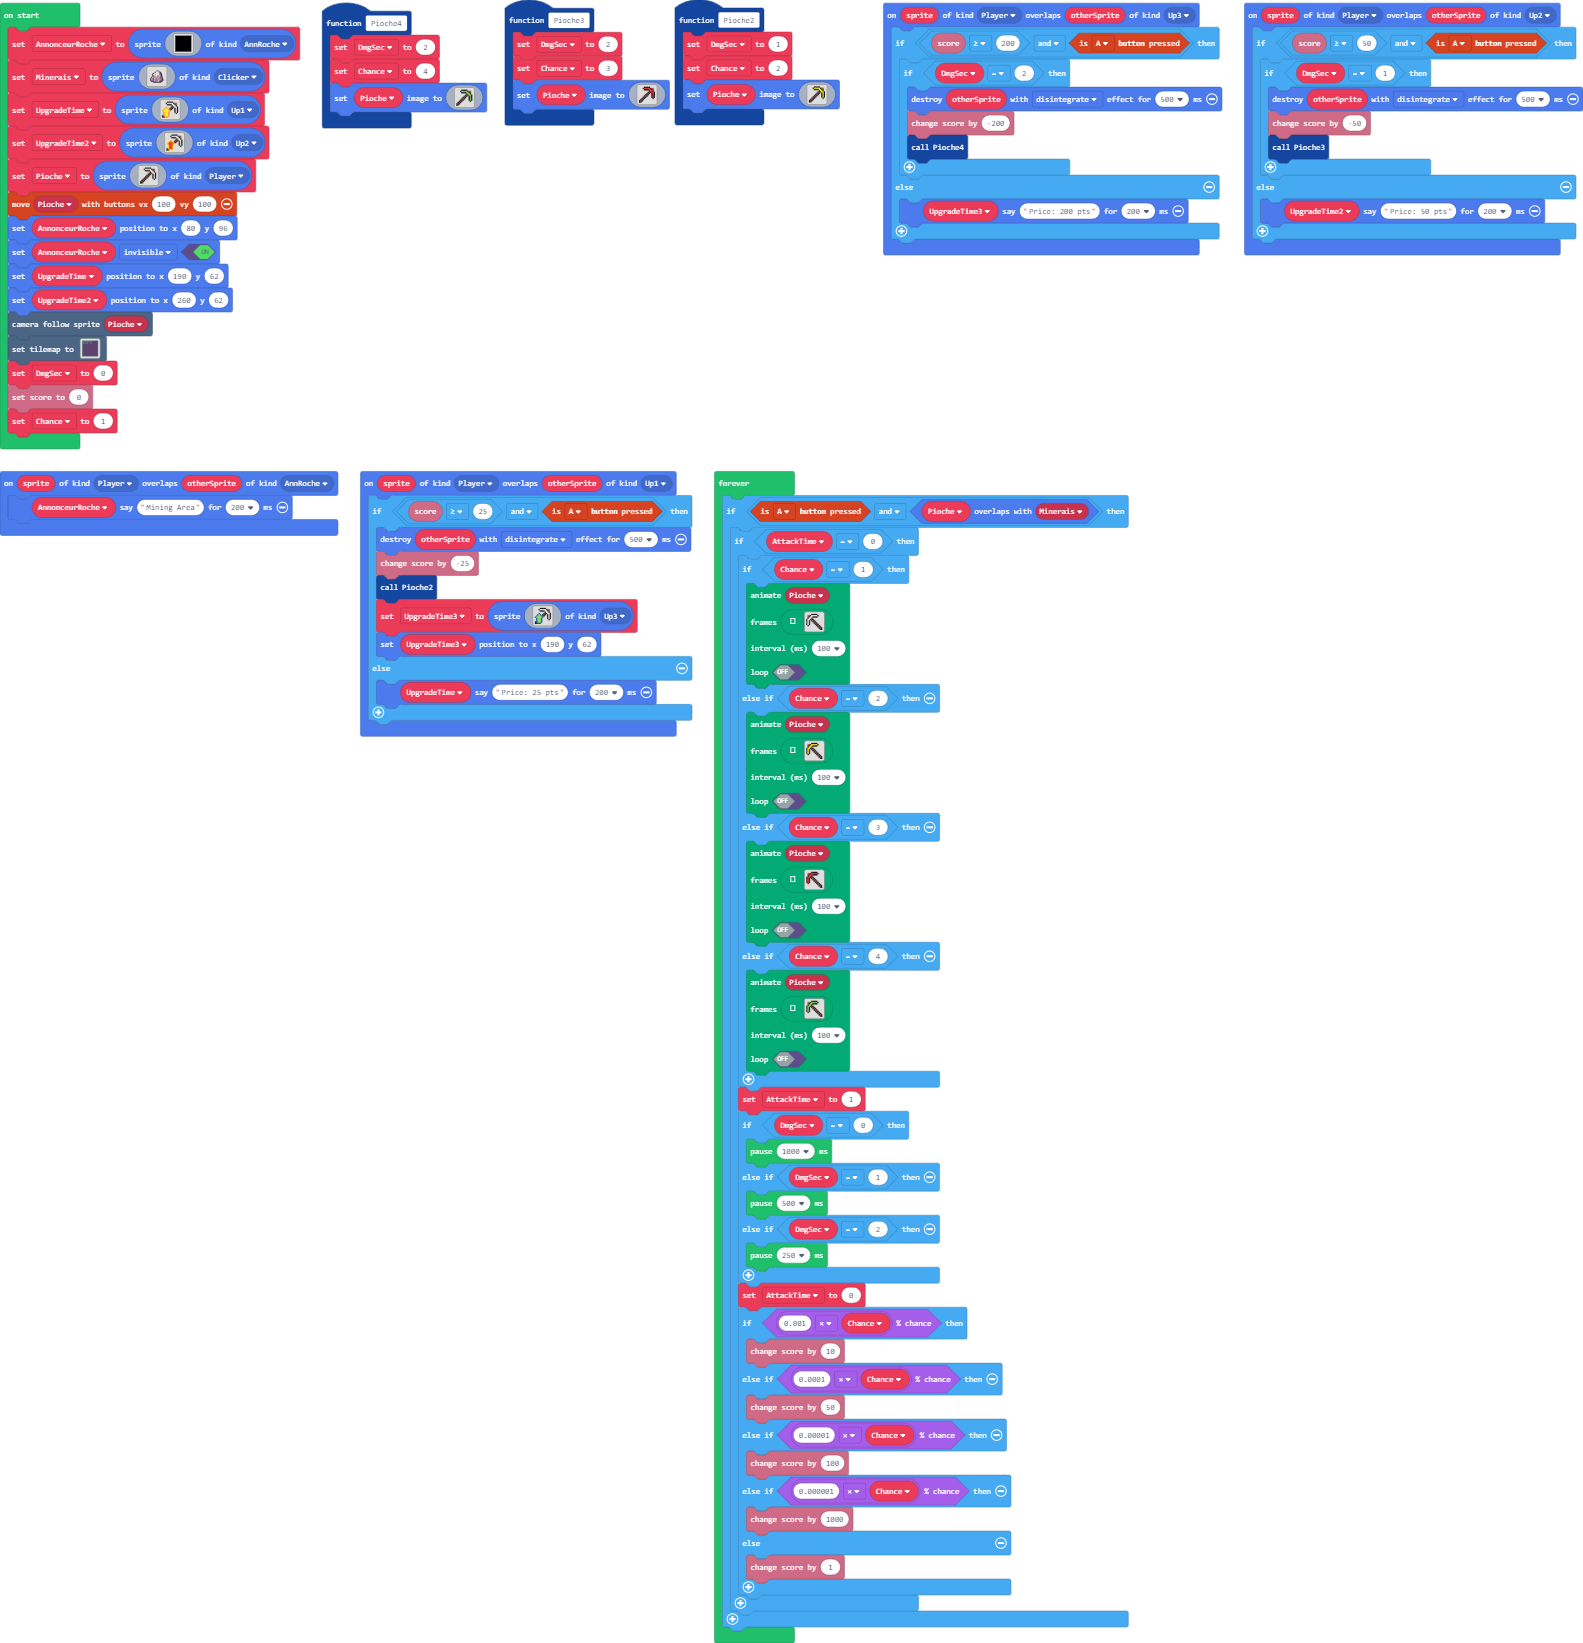
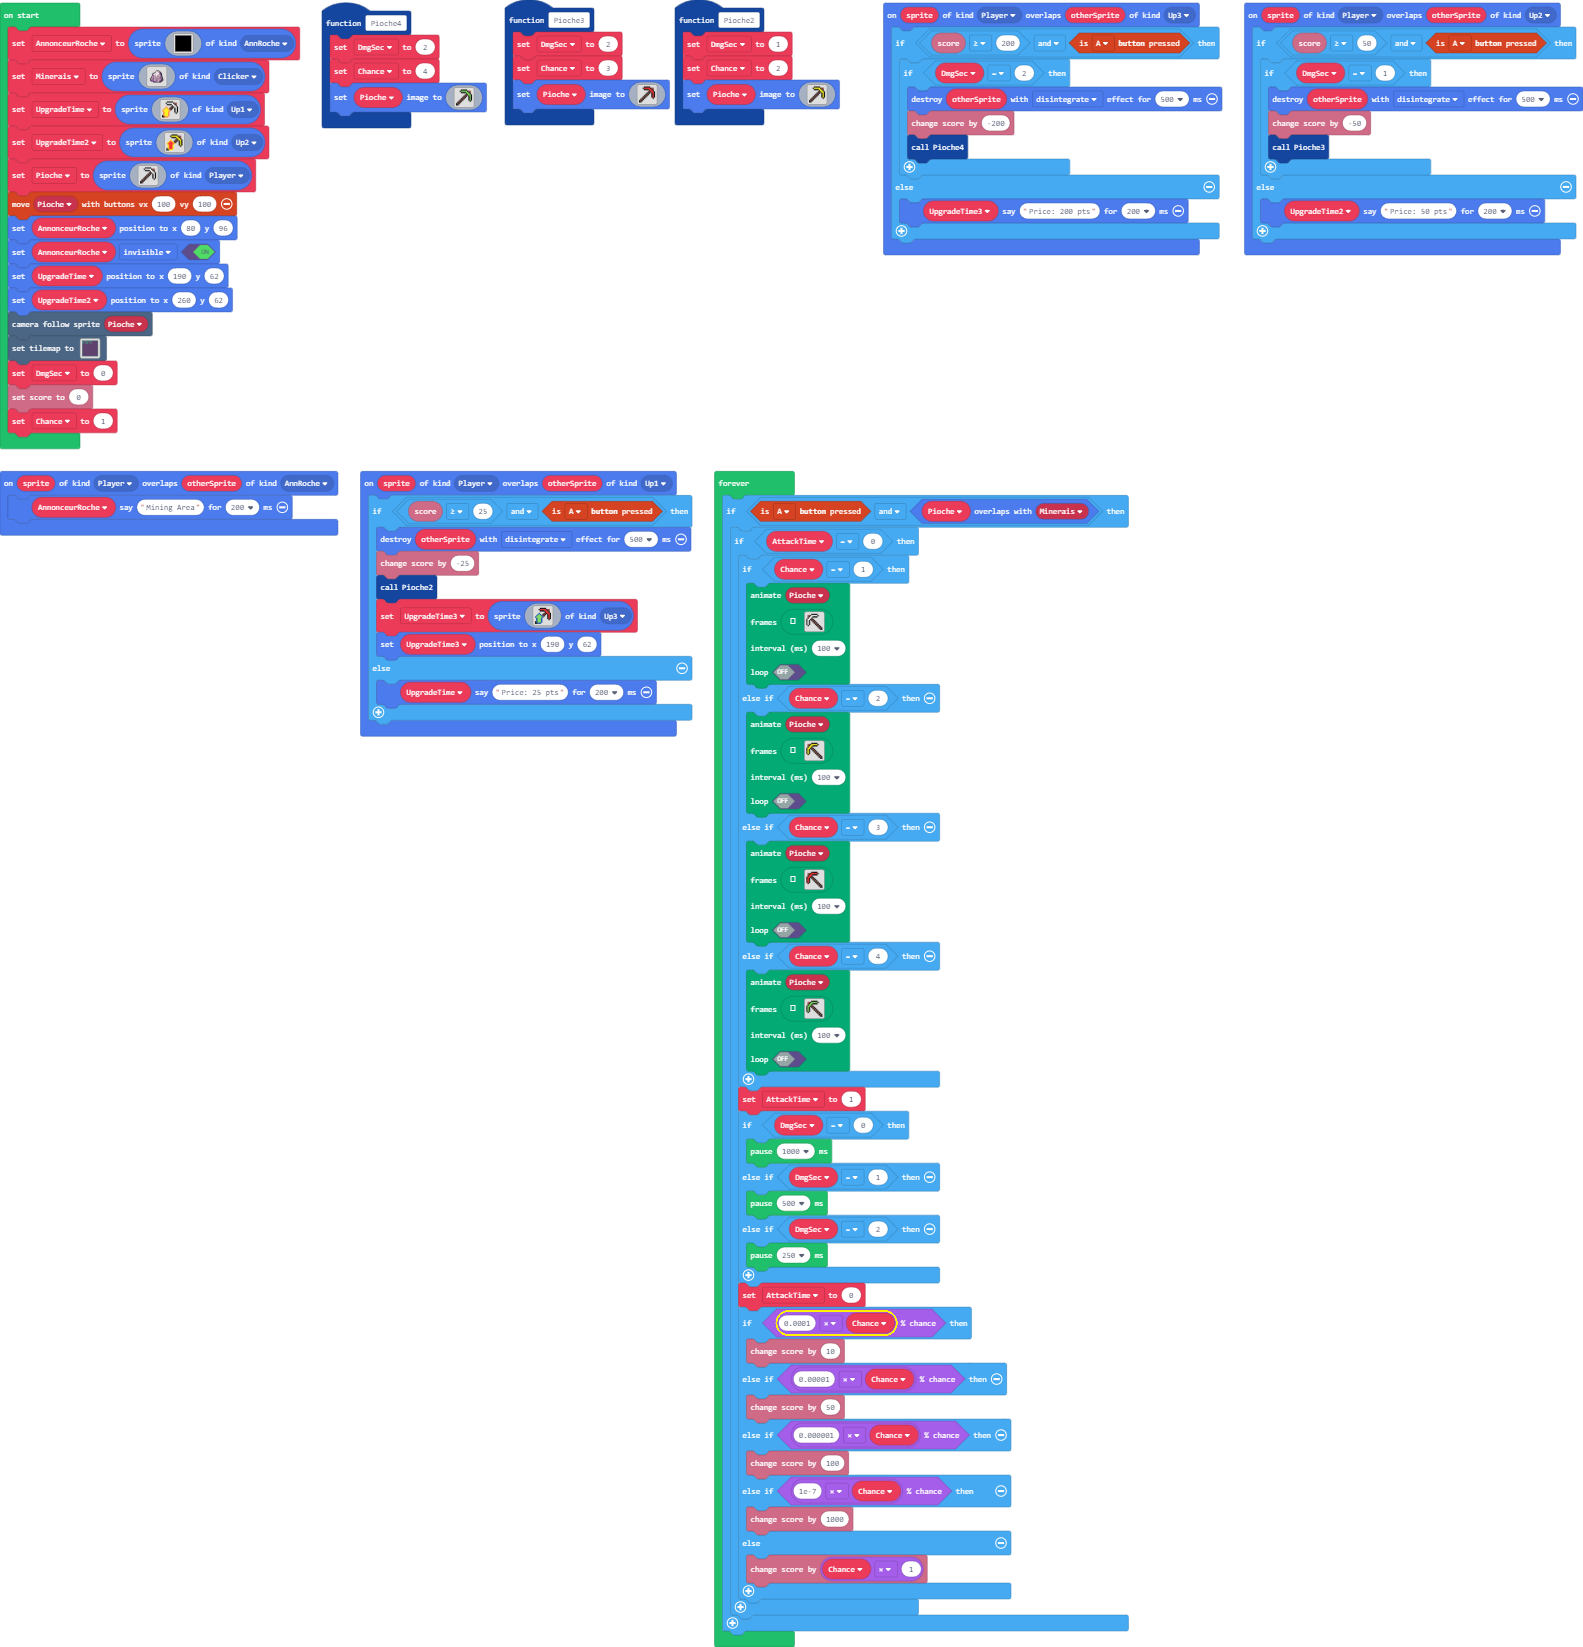
Update main.blocks, main.ts

diff --git a/main.ts b/main.ts
@@ -26,19 +26,19 @@ namespace myTiles {
 . . . . . . . . . . . . . . . . 
 `
 }
-function Pioche4 () {
-    DmgSec = 2
-    Chance = 4
+function Pioche2 () {
+    DmgSec = 1
+    Chance = 2
     Pioche.setImage(img`
 . . . . f f f f f . . . . 
-. . . f 7 7 7 7 7 f e e . 
-. . . . f f f f 7 7 f e . 
-. . . . . . . . f 7 7 f . 
-. . . . . . . f e f 7 7 f 
-. . . . . . f e f . f 7 f 
-. . . . . f e f . . f 7 f 
-. . . . f e f . . . f 7 f 
-. . . f e f . . . . f 7 f 
+. . . f 5 5 5 5 5 f e e . 
+. . . . f f f f 5 5 f e . 
+. . . . . . . . f 5 5 f . 
+. . . . . . . f e f 5 5 f 
+. . . . . . f e f . f 5 f 
+. . . . . f e f . . f 5 f 
+. . . . f e f . . . f 5 f 
+. . . f e f . . . . f 5 f 
 . . f e f . . . . . . f . 
 . f e f . . . . . . . . . 
 f e f . . . . . . . . . . 
@@ -58,25 +58,6 @@ function Pioche3 () {
 . . . . . f e f . . f 2 f 
 . . . . f e f . . . f 2 f 
 . . . f e f . . . . f 2 f 
-. . f e f . . . . . . f . 
-. f e f . . . . . . . . . 
-f e f . . . . . . . . . . 
-f f . . . . . . . . . . . 
-`)
-}
-function Pioche2 () {
-    DmgSec = 1
-    Chance = 2
-    Pioche.setImage(img`
-. . . . f f f f f . . . . 
-. . . f 5 5 5 5 5 f e e . 
-. . . . f f f f 5 5 f e . 
-. . . . . . . . f 5 5 f . 
-. . . . . . . f e f 5 5 f 
-. . . . . . f e f . f 5 f 
-. . . . . f e f . . f 5 f 
-. . . . f e f . . . f 5 f 
-. . . f e f . . . . f 5 f 
 . . f e f . . . . . . f . 
 . f e f . . . . . . . . . 
 f e f . . . . . . . . . . 
@@ -115,14 +96,14 @@ sprites.onOverlap(SpriteKind.Player, SpriteKind.Up1, function (sprite, otherSpri
         Pioche2()
         UpgradeTime3 = sprites.create(img`
 . . . . f f f f f . . . . 
-. . . f 1 1 1 1 1 f e e . 
-. . . . f f f f 1 1 f e . 
-. . . . . . . . f 1 1 f . 
-. . . 8 . . . f e f 1 1 f 
-. . 8 7 8 . f e f . f 1 f 
-. 8 7 7 7 8 e f . . f 1 f 
-8 7 7 7 7 7 8 . . . f 1 f 
-. 8 7 7 7 8 . . . . f 1 f 
+. . . f 2 2 2 2 2 f e e . 
+. . . . f f f f 2 2 f e . 
+. . . . . . . . f 2 2 f . 
+. . . 8 . . . f e f 2 2 f 
+. . 8 7 8 . f e f . f 2 f 
+. 8 7 7 7 8 e f . . f 2 f 
+8 7 7 7 7 7 8 . . . f 2 f 
+. 8 7 7 7 8 . . . . f 2 f 
 . 8 7 7 7 8 . . . . . f . 
 . 8 7 7 7 8 . . . . . . . 
 f 8 7 7 7 8 . . . . . . . 
@@ -133,6 +114,25 @@ f f 8 8 8 . . . . . . . .
         UpgradeTime.say("Price: 25 pts", 200)
     }
 })
+function Pioche4 () {
+    DmgSec = 2
+    Chance = 4
+    Pioche.setImage(img`
+. . . . f f f f f . . . . 
+. . . f 7 7 7 7 7 f e e . 
+. . . . f f f f 7 7 f e . 
+. . . . . . . . f 7 7 f . 
+. . . . . . . f e f 7 7 f 
+. . . . . . f e f . f 7 f 
+. . . . . f e f . . f 7 f 
+. . . . f e f . . . f 7 f 
+. . . f e f . . . . f 7 f 
+. . f e f . . . . . . f . 
+. f e f . . . . . . . . . 
+f e f . . . . . . . . . . 
+f f . . . . . . . . . . . 
+`)
+}
 let AttackTime = 0
 let UpgradeTime3: Sprite = null
 let Chance = 0
@@ -226,14 +226,14 @@ f f 4 4 4 . . . . . . . .
 `, SpriteKind.Up1)
 UpgradeTime2 = sprites.create(img`
 . . . . f f f f f . . . . 
-. . . f 1 1 1 1 1 f e e . 
-. . . . f f f f 1 1 f e . 
-. . . . . . . . f 1 1 f . 
-. . . 5 . . . f e f 1 1 f 
-. . 5 2 5 . f e f . f 1 f 
-. 5 2 2 2 5 e f . . f 1 f 
-5 2 2 2 2 2 5 . . . f 1 f 
-. 5 2 2 2 5 . . . . f 1 f 
+. . . f 5 5 5 5 5 f e e . 
+. . . . f f f f 5 5 f e . 
+. . . . . . . . f 5 5 f . 
+. . . 5 . . . f e f 5 5 f 
+. . 5 2 5 . f e f . f 5 f 
+. 5 2 2 2 5 e f . . f 5 f 
+5 2 2 2 2 2 5 . . . f 5 f 
+. 5 2 2 2 5 . . . . f 5 f 
 . 5 2 2 2 5 . . . . . f . 
 . 5 2 2 2 5 . . . . . . . 
 f 5 2 2 2 5 . . . . . . . 
@@ -455,16 +455,16 @@ f f . . . . . . . . . . .
                 pause(250)
             }
             AttackTime = 0
-            if (Math.percentChance(0.001 * Chance)) {
+            if (Math.percentChance(0.0001 * Chance)) {
                 info.changeScoreBy(10)
-            } else if (Math.percentChance(0.0001 * Chance)) {
-                info.changeScoreBy(50)
             } else if (Math.percentChance(0.00001 * Chance)) {
-                info.changeScoreBy(100)
+                info.changeScoreBy(50)
             } else if (Math.percentChance(0.000001 * Chance)) {
+                info.changeScoreBy(100)
+            } else if (Math.percentChance(1e-7 * Chance)) {
                 info.changeScoreBy(1000)
             } else {
-                info.changeScoreBy(1)
+                info.changeScoreBy(Chance * 1)
             }
         }
     }
